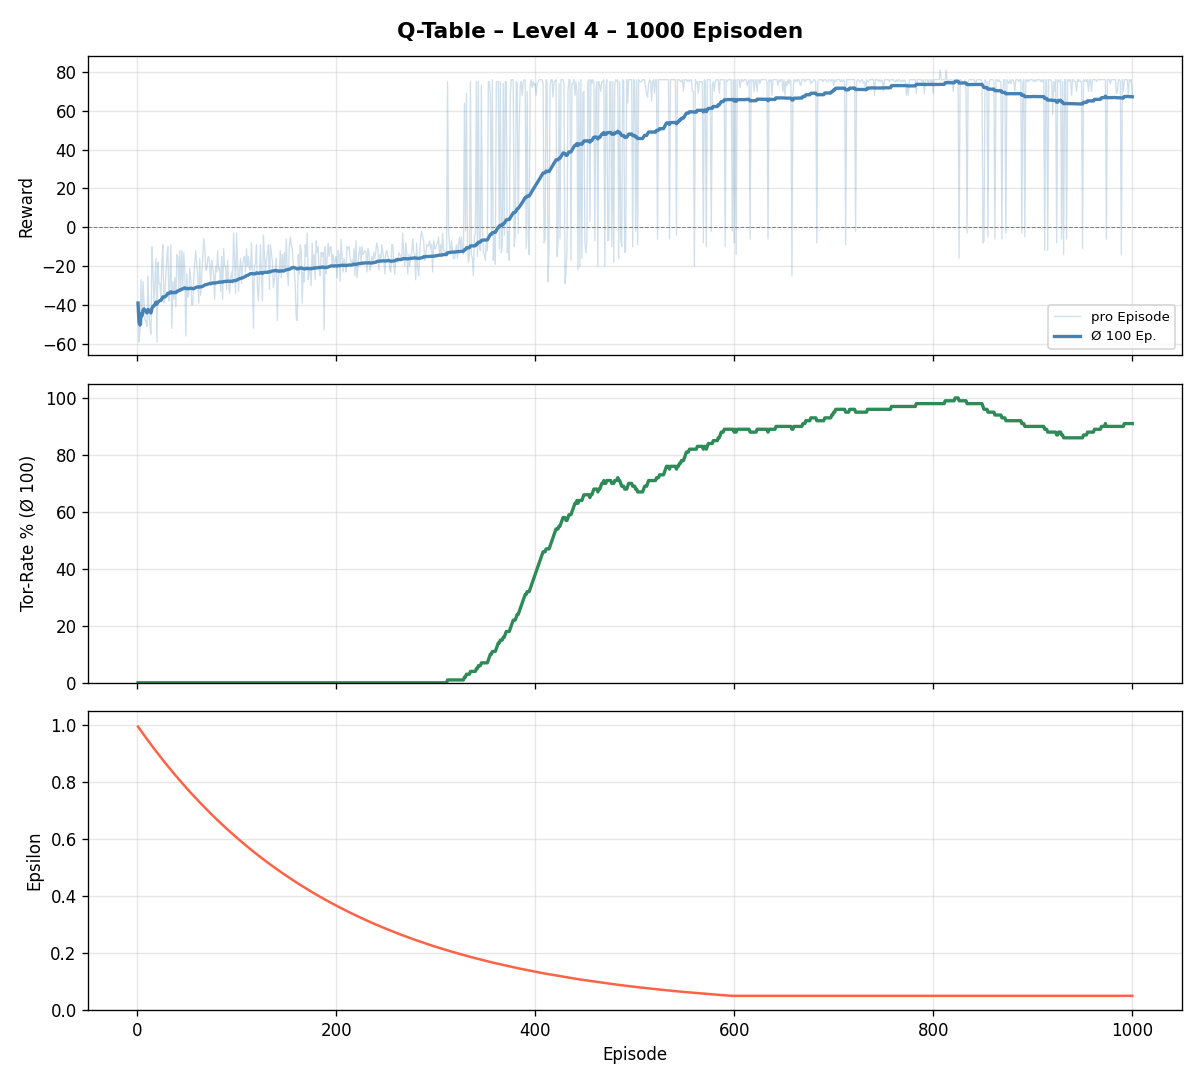
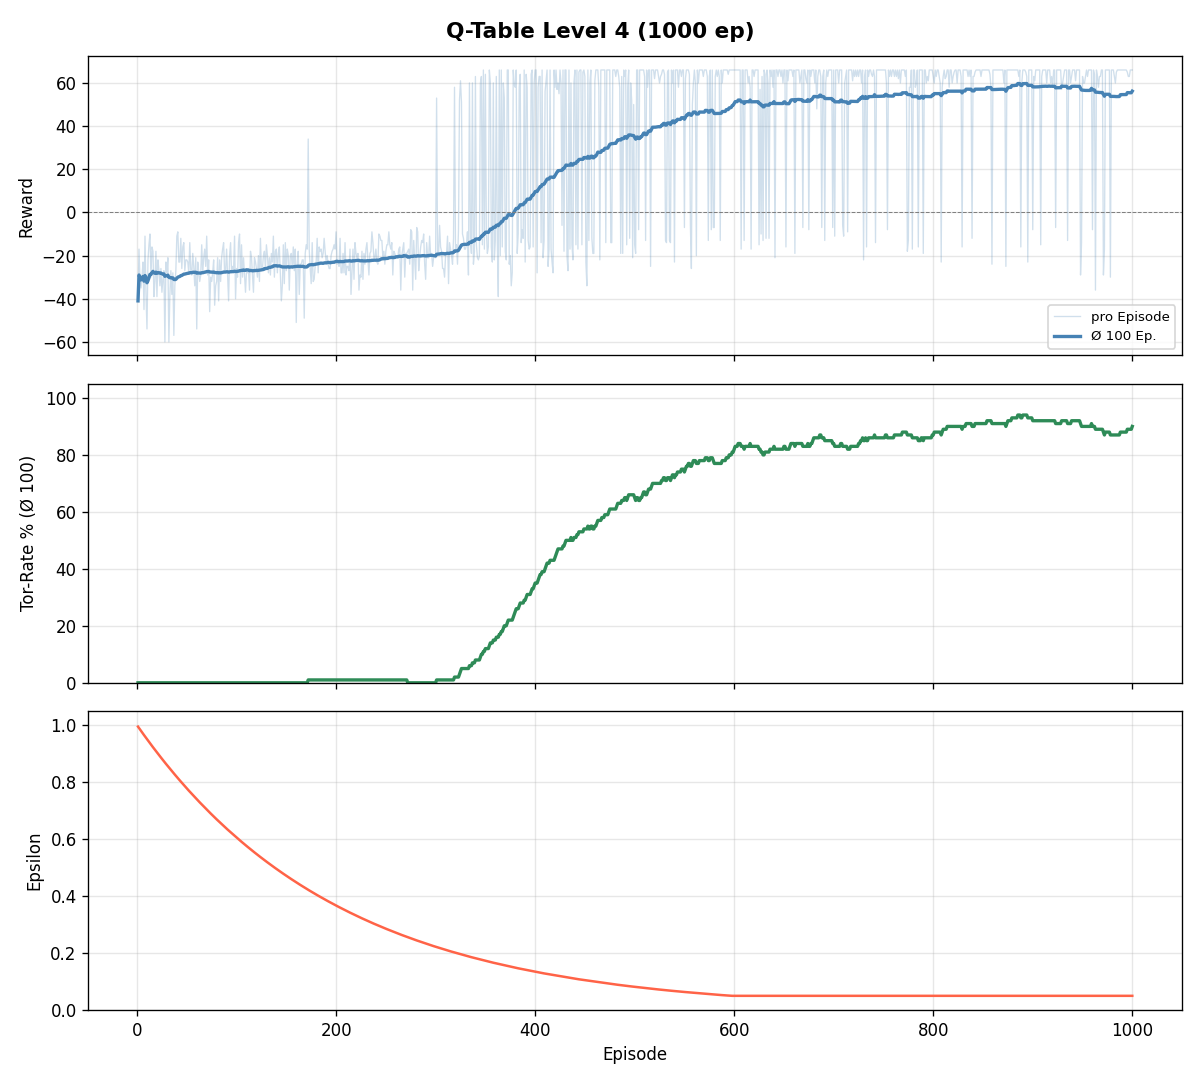
Fix ball pickup farming: reward only on first pickup per episode
DQN L4 was exploiting shoot->chase->pickup cycles: shoot ball forward
(+2 pass_closer), walk to ball (+1/step closer), pick up (+5) = ~+6 net
per cycle, far safer than the risky obstacle detour.

Making REWARD_BALL_PICKUP one-time per episode (ball_pickup_rewarded flag)
removes this local optimum. DQN L4 avg_reward drops from +3 to -8,
confirming the farming loop is gone.

Result after fix (1000 and 3000 episodes):
- Q-Table L4: 87% at ep1000, 95% at ep3000 (stable)
- DQN L4: still 0% — structural failure confirmed without farming noise

diff --git a/src/environment.py b/src/environment.py
@@ -94,6 +94,7 @@ class FootballEnv:
         self.has_ball = False
         self.done = False
         self.step_count = 0
+        self.ball_pickup_rewarded = False  # ensures pickup reward fires only once per episode
 
         if self.level >= 3:
             opp_x = self.goal_pos[0] - config.OPP_START_X_FROM_GOAL
@@ -165,10 +166,12 @@ class FootballEnv:
             if self.has_ball:
                 self.ball_pos = self.agent_pos.copy()
 
-            # Ball pickup
+            # Ball pickup — reward fires only once per episode to prevent shoot→pickup farming
             if not self.has_ball and self.agent_pos == self.ball_pos:
                 self.has_ball = True
-                reward += config.REWARD_BALL_PICKUP  # +5
+                if not self.ball_pickup_rewarded:
+                    reward += config.REWARD_BALL_PICKUP  # +5
+                    self.ball_pickup_rewarded = True
 
             # Shaping: reward progress toward goal
             if self._dist_to_goal() < prev_dist: